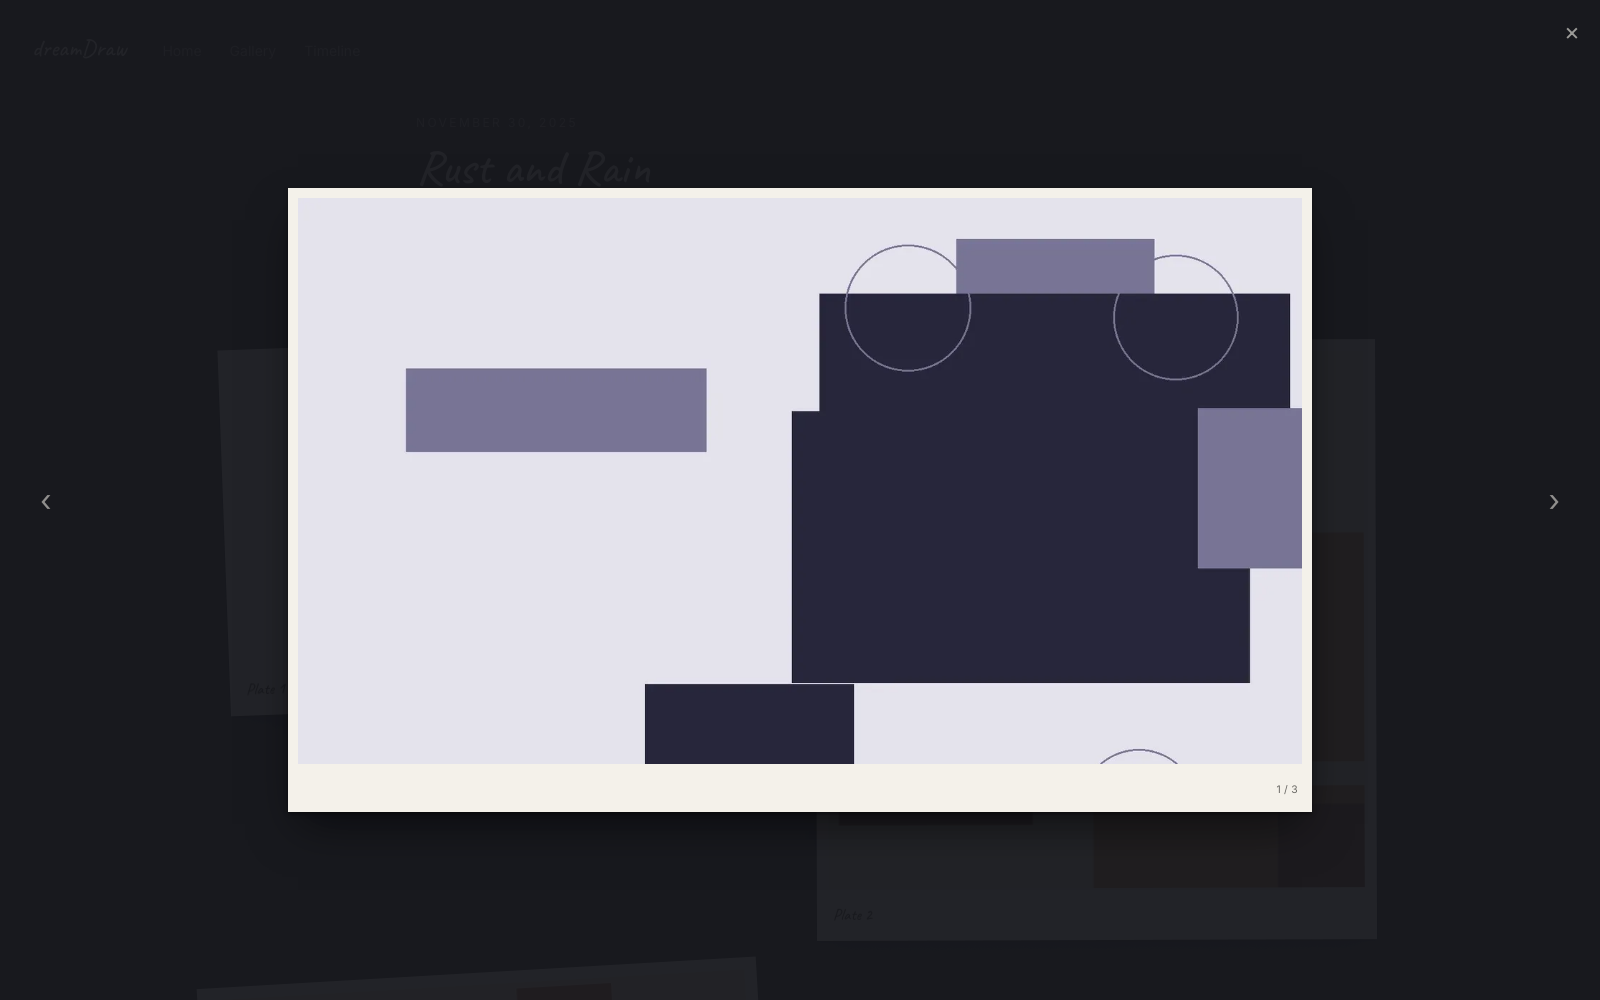
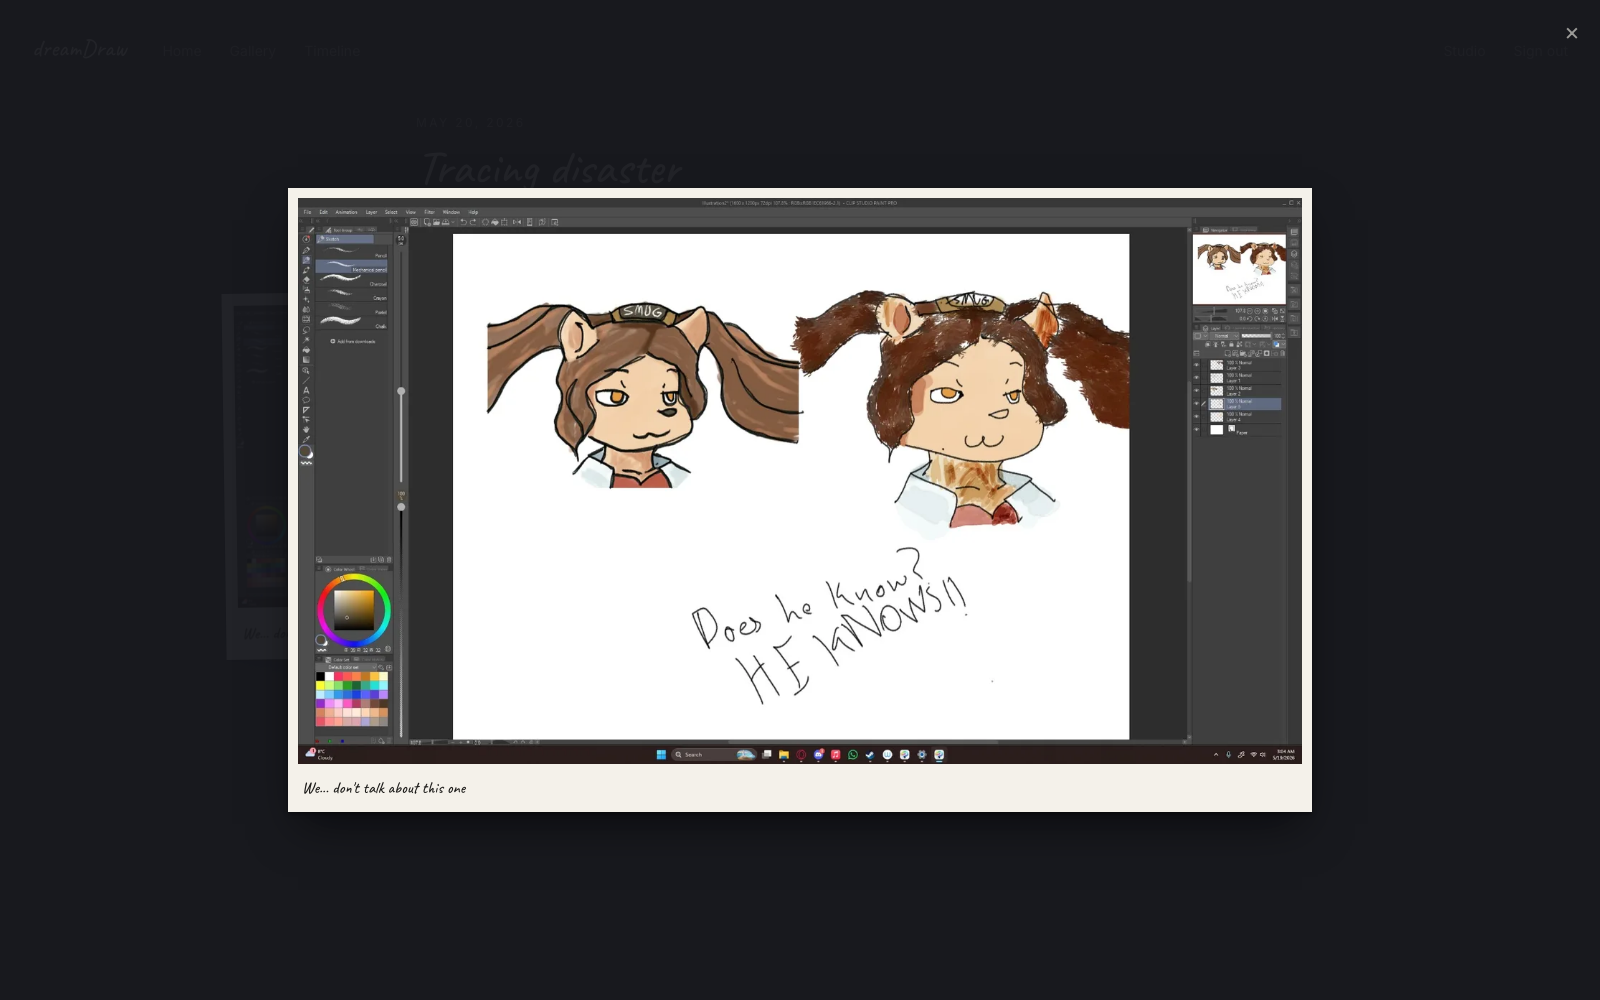
Use real screenshots of the deployed site in the README
Replaces the generated placeholders with the live gallery, timeline,
entry, lightbox and studio.

diff --git a/README.md b/README.md
@@ -25,6 +25,8 @@ except through the CDN.
 
 ![The gallery](utils/gallery.png)
 
+<sub>Live at <code>d1arjq78faqmon.cloudfront.net</code></sub>
+
 ## 🏗 Architecture Overview
 
 ```mermaid
@@ -84,11 +86,11 @@ graph LR
 | | |
 |---|---|
 | ![Home](utils/home.png) | ![Timeline](utils/timeline.png) |
-| **Home** — a welcome and a way in | **Timeline** — the journey by month and year |
-| ![Entry](utils/entry.png) | ![Lightbox](utils/lightbox.png) |
-| **Entry** — plates, notes and tags | **Lightbox** — straightened and scaled up |
-| ![Studio](utils/studio.png) | ![Editor](utils/editor.png) |
-| **Studio** — everything you have made | **Editor** — uploader and image ordering |
+| **Home** — a greeting and a way in | **Timeline** — grouped by month and year, with an accent rail |
+| ![Entry](utils/entry.png) | ![Gallery](utils/gallery-more.png) |
+| **Entry** — the work, its notes and its tags | **The wall** — masonry, each card tilted by a hash of its id |
+| ![Lightbox](utils/lightbox.png) | ![Studio](utils/studio.png) |
+| **Lightbox** — the polaroid straightens and scales up; arrow keys and swipe navigate | **Studio** — the private side: everything made so far, and a way in to edit it |
 
 ## 📁 Project Structure
 
